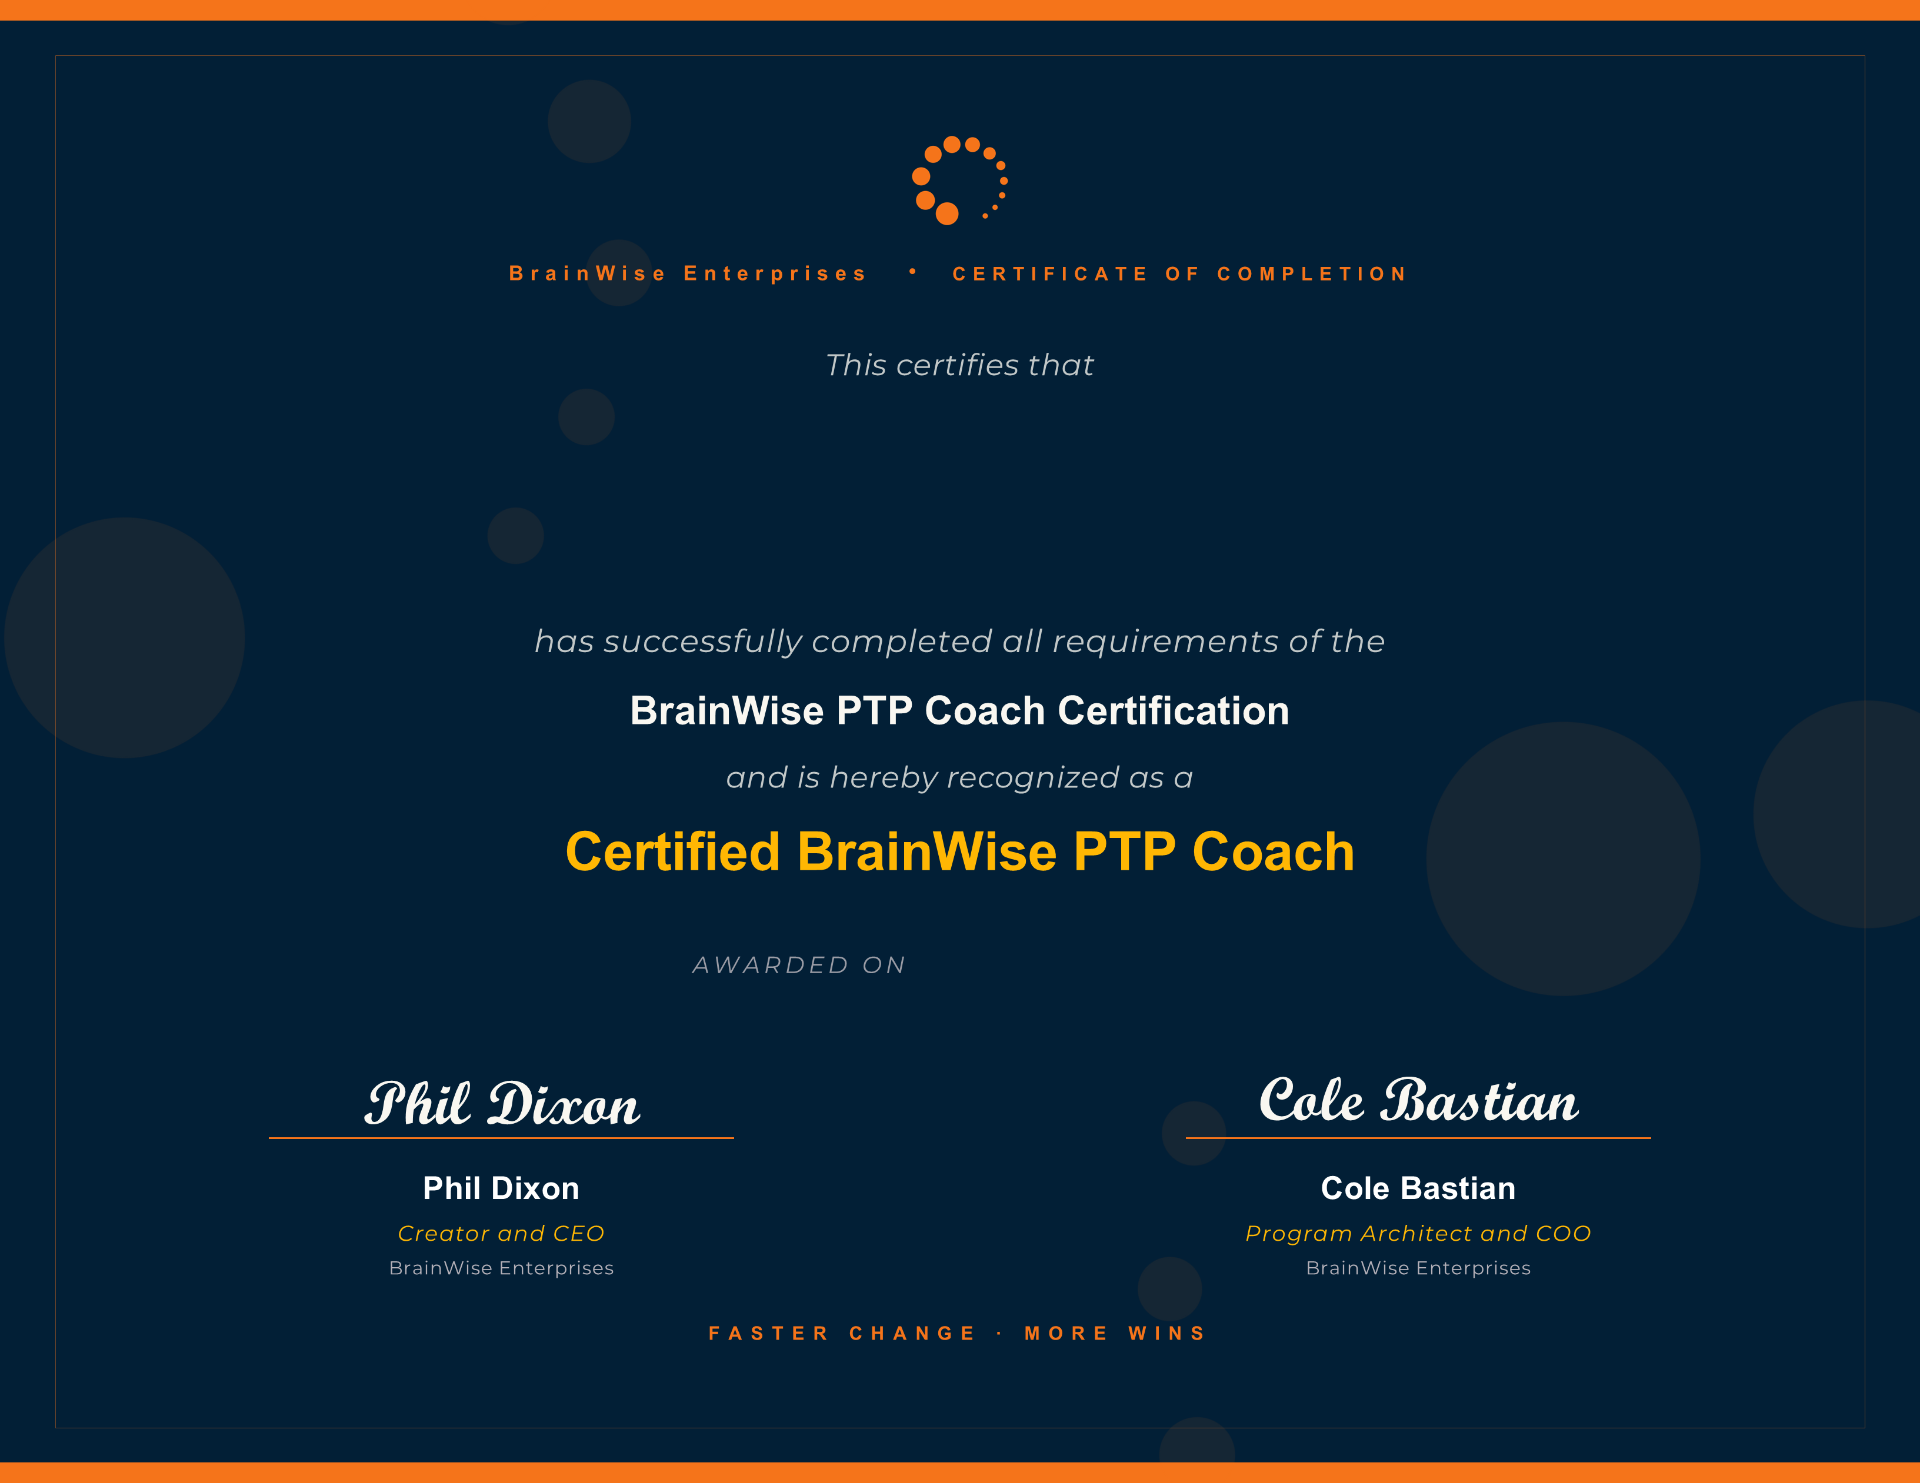
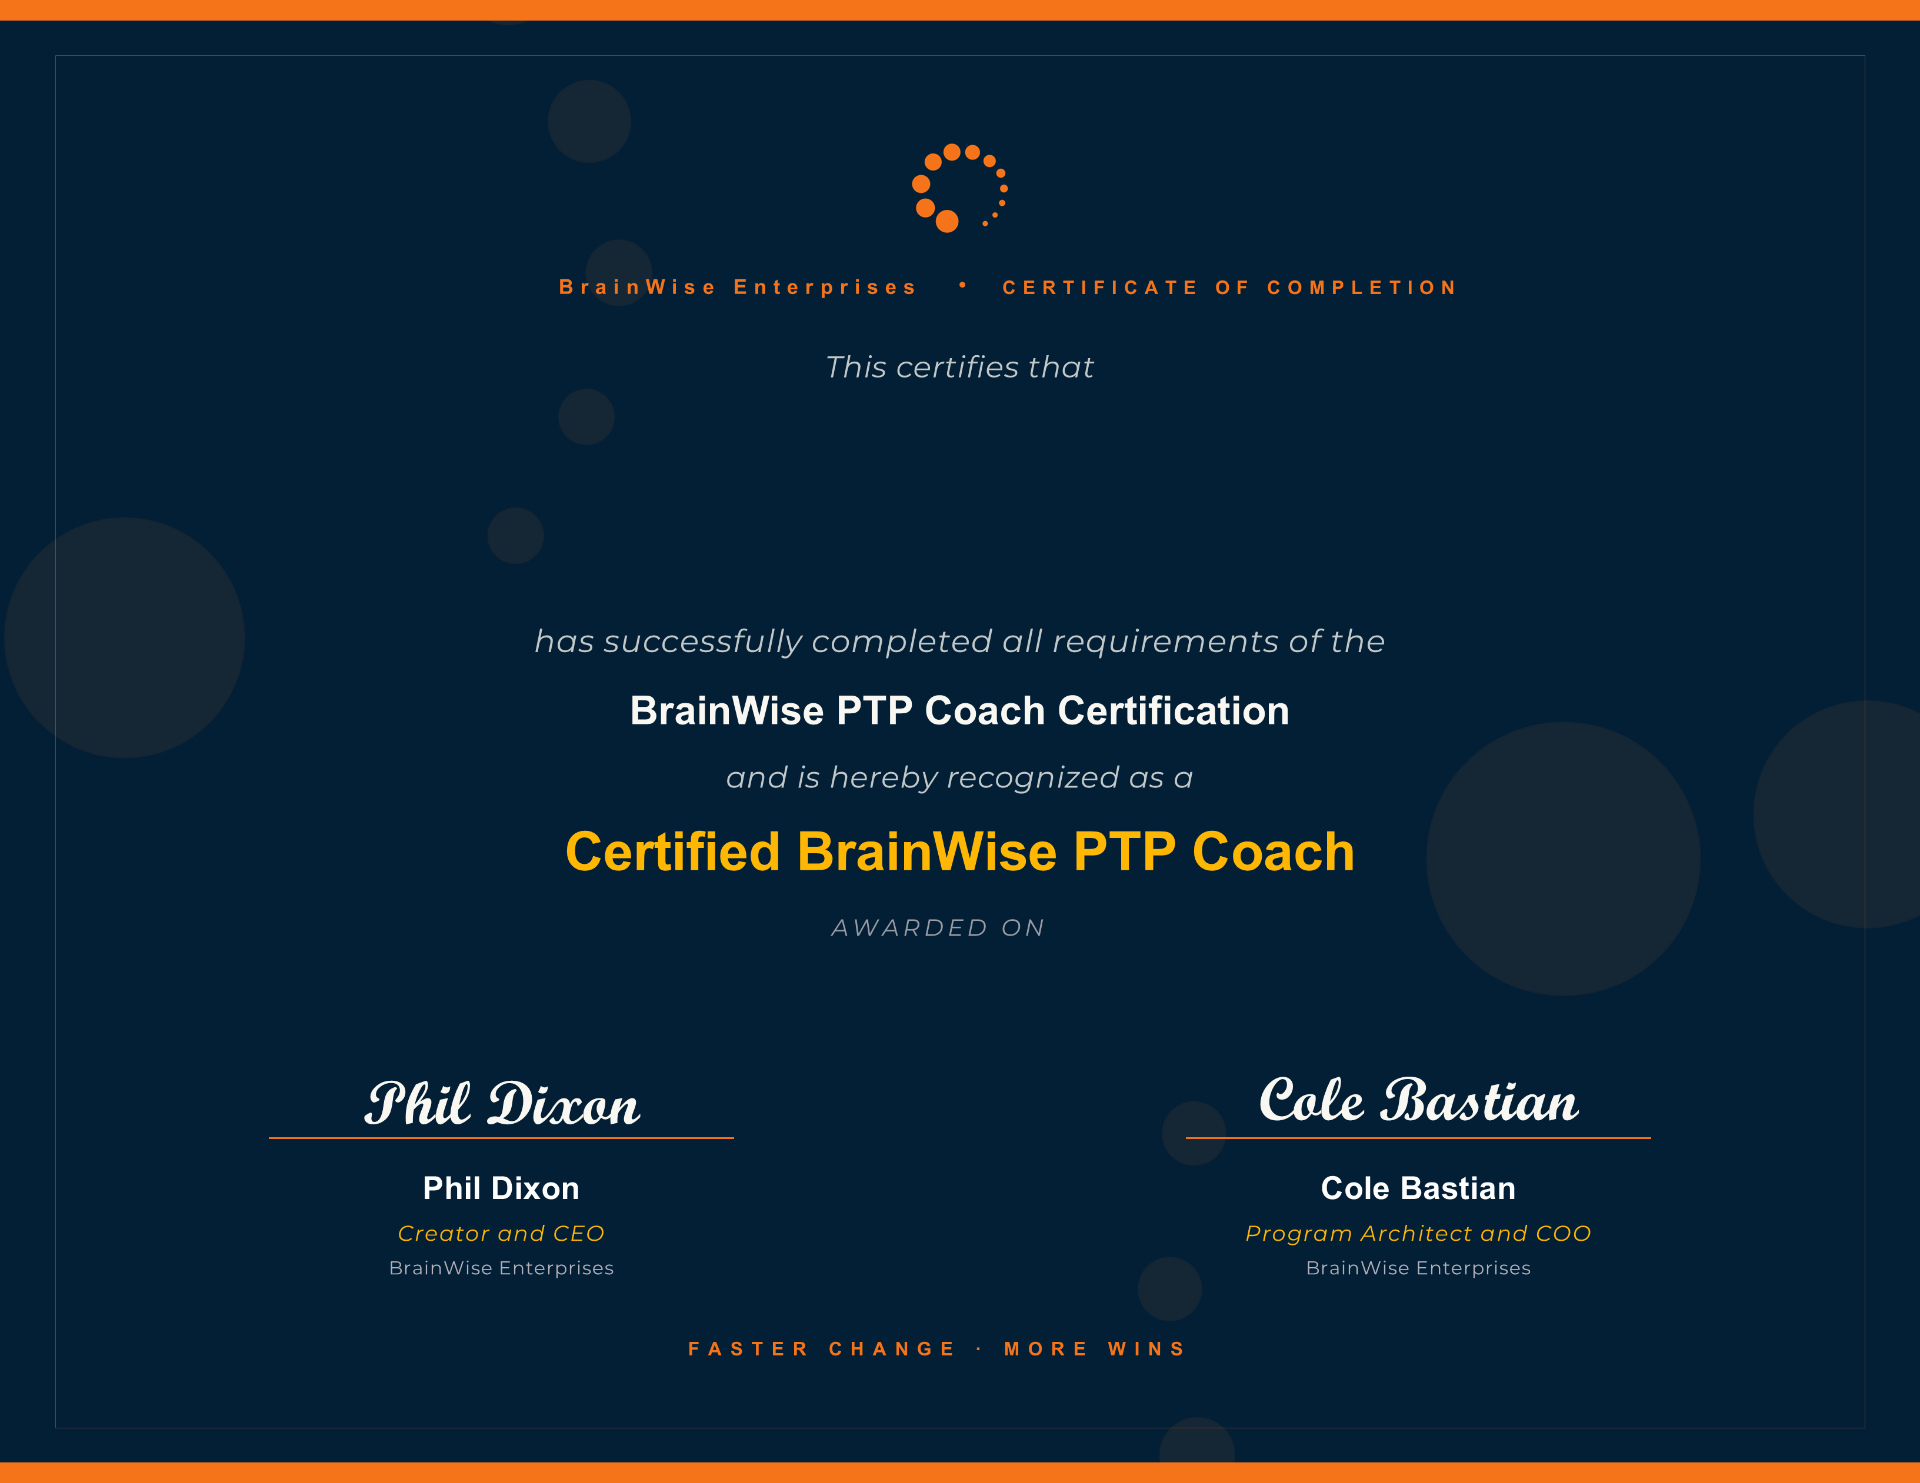
Changes

diff --git a/src/components/certification/CertificateCanvas.tsx b/src/components/certification/CertificateCanvas.tsx
@@ -90,7 +90,7 @@ export default function CertificateCanvas({
         ctx.textAlign = "center";
         ctx.textBaseline = "middle";
         const dateText = format(new Date(certifiedAt), "MMMM d, yyyy");
-        ctx.fillText(dateText, cw * 0.415, ch * 0.689);
+        ctx.fillText(dateText, cw * 0.5, ch * 0.689);
       }
 
       if (!cancelled) onReadyRef.current?.(canvas);
